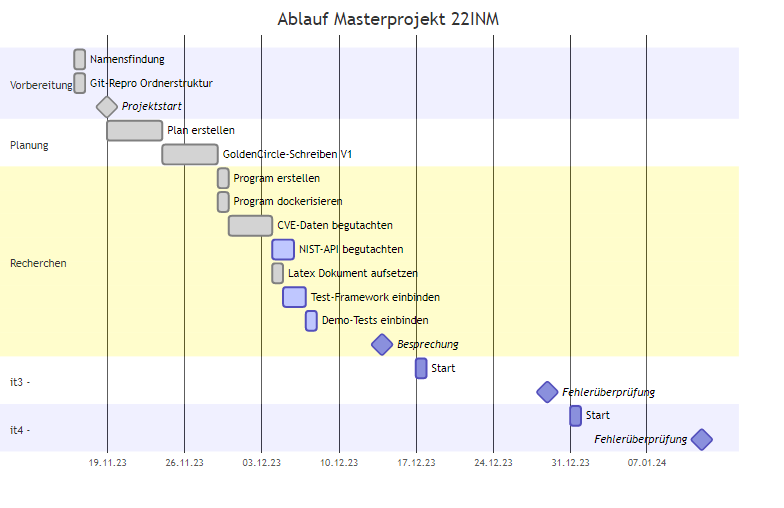
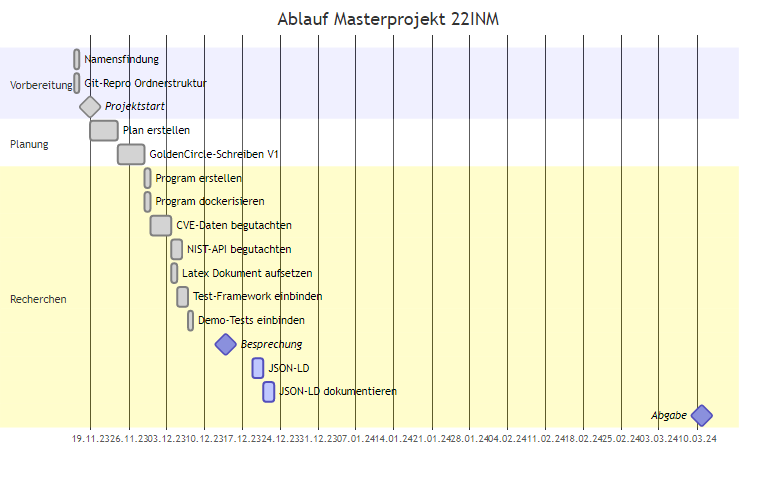
modified gantt for status (without real date, only as a leading path

diff --git a/documentation/planning/procedure.md b/documentation/planning/procedure.md
@@ -22,50 +22,17 @@ gantt
     Program dockerisieren: done, programmdockerisieren, after goldencircleschreiben, 1d
 
     CVE-Daten begutachten: done, cvedatenbegutachten, after programmdockerisieren, 4d
-    NIST-API begutachten: active, nistapibegutachten, after cvedatenbegutachten, 2d
+    NIST-API begutachten: done, nistapibegutachten, after cvedatenbegutachten, 2d
 
     Latex Dokument aufsetzen: done, latexdokumentaufsetzen, after cvedatenbegutachten, 1d
 
-    Test-Framework einbinden: active, testframeworkeinbinden, after latexdokumentaufsetzen, 2d
-    Demo-Tests einbinden: active, demotestseinbinden, after testframeworkeinbinden, 1d
+    Test-Framework einbinden: done, testframeworkeinbinden, after latexdokumentaufsetzen, 2d
+    Demo-Tests einbinden: done, demotestseinbinden, after testframeworkeinbinden, 1d
 
     Besprechung: milestone, 2023-12-14, 0d
 
-    section it3 - 
-    Start: it3-1, 2023-12-17, 1d
-    
-    Fehlerüberprüfung: milestone, 2023-12-29, 0d
-
-    section it4 - 
-    Start: it4-1, 2023-12-31, 1d
-
-    Fehlerüberprüfung: milestone, 2024-01-12, 0d
-
-```
-
-```mermaid
-gantt
-    dateFormat  YYYY-MM-DD
-    axisFormat  %d.%m.%y
-    title       Ablauf Masterprojekt 22INM
-    todayMarker off
-
-    section it5 - 
-    Start: it5-1, 2024-01-14, 1d
-
-    Fehlerüberprüfung: milestone, 2024-01-26, 0d
-
-    section it6 - 
-    Start: it6-1, 2024-01-28, 1d
-
-    Fehlerüberprüfung: milestone, 2024-02-09, 0d
-
-    section it7 - 
-    Start: it7-1, 2024-02-11, 1d
-
-    Fehlerüberprüfung: milestone, 2024-02-23, 0d
-
-    section it8 - 
+    JSON-LD: active, json-ld, after besprechung, 2d
+    JSON-LD dokumentieren: active, json-ld-dokumentieren, after json-ld, 2d
 
     Abgabe: milestone, 2024-03-11, 0d
 ```

diff --git a/README.md b/README.md
@@ -17,8 +17,8 @@ Masterprojekt des Jahrgangs 22INM der HTWK Leipzig
 
 ## Planung
 <img src="documentation/planning/procedure-1.png" alt="neu kompilieren!" title="procedure-1.png" />
-<img src="documentation/planning/procedure-2.png" alt="neu kompilieren!" title="procedure-2.png" />
 <figcaption><a href="documentation/planning/procedure.md">Speicherort der Rohdatei</a></figcaption>
+Hier der geplante und immer wieder aktualisierte Fortschritt des Projektes.
 
 ## Projekt-Verwaltungsstruktur
 ### Ordnerstruktur
